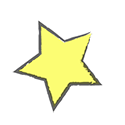
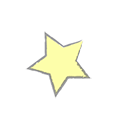
All games working to an acceptable standard - feature complete
must be pretty close to feature complete!

Changed region(s): [[0.096, 0.144, 0.816, 0.912]]

diff --git a/apps/vst/src/edu/voicelabs/vst/WordGameActivity.java b/apps/vst/src/edu/voicelabs/vst/WordGameActivity.java
@@ -8,6 +8,8 @@ import android.os.Handler;
 import android.view.MotionEvent;
 import android.view.View;
 import android.view.View.OnTouchListener;
+import android.view.animation.Animation;
+import android.view.animation.AnimationUtils;
 import android.view.ViewGroup;
 import android.widget.ImageButton;
 import android.widget.ImageView;
@@ -51,7 +53,7 @@ public class WordGameActivity extends AbstractGameActivity implements OnTouchLis
 		new WordData("Lizard", "LIZARD", R.drawable.img_obj_lizzard, R.raw.word_lizzard),
 		new WordData("Lightning", "LIGHTNING", R.drawable.img_obj_lightning, R.raw.word_lightning),
 		new WordData("Lolly", "LOLLY", R.drawable.img_obj_lolly, R.raw.word_lolly),
-		//new WordData("lips", "LIPS", R.drawable.img_obj_lips, R.raw.word_lips),
+		//new WordData("lips", "LIPS", R.drawable.img_obj_lips, R.raw.word_lips), // LIPS doesn't seem to be in the dictionary - Is there any way to add another word?
 		new WordData("Leaves", "LEAVES", R.drawable.img_obj_leaves, R.raw.word_leaves)
 	};
 	private int wordIndex = 0;
@@ -112,15 +114,33 @@ public class WordGameActivity extends AbstractGameActivity implements OnTouchLis
 			    handler.postDelayed(new Runnable() { 
 			         public void run() { 
 			        	 runGameCompletion("Word");
-                         //runLessonCompletion();  // Last game, so go to the victory screen
+			        	 Intent intent = new Intent(getApplicationContext(), LessonCompleteActivity.class);
+				         startActivity(intent);   // go to victory for each game - seperate screen TBD for final win screen
 			         } 
 			    }, 3000); 
 
 		}
-		else {			
+		else {
+			Animation fadeInAnimation;
 			this.playingRef = this.words[this.wordIndex].speechAudio;
 			this.message.setText("Now say " + this.words[this.wordIndex].displayWord + "!");
 			this.wordObject.setBackgroundResource(this.words[this.wordIndex].drawable);
+			
+			//FADE IN
+			fadeInAnimation = AnimationUtils.loadAnimation(this, R.anim.anim_fade_in_obj);
+			fadeInAnimation.reset();
+			
+			View objectView = findViewById(R.id.btn_game3_obj);
+					
+		    View v = objectView;
+		    // cancel any pending animation and start this one
+		    if (v != null){
+		      v.clearAnimation();
+		      v.startAnimation(fadeInAnimation);
+		      
+		    }
+		    
+		    
 			this.subPattern = this.words[this.wordIndex].matchWord;
 			setState(InteractionState.PLAY_THEN_RERUN);
 		}				
@@ -168,6 +188,21 @@ public class WordGameActivity extends AbstractGameActivity implements OnTouchLis
 				this.wordIndex = 0;
 				this.message.setText(this.words[wordIndex].displayWord);
 				this.wordObject.setBackgroundResource(this.words[wordIndex].drawable);
+				
+				//FADE IN
+				Animation fadeInAnimation;
+				fadeInAnimation = AnimationUtils.loadAnimation(this, R.anim.anim_fade_in_obj);
+				fadeInAnimation.reset();
+				
+				View objectView = findViewById(R.id.btn_game3_obj);
+						
+			    View vw = objectView;
+			    // cancel any pending animation and start this one
+			    if (v != null){
+			      vw.clearAnimation();
+			      vw.startAnimation(fadeInAnimation);
+			      
+			    }
 				
 				//Play Object sound
 				MediaPlayer mediaPlayer = MediaPlayer.create(getApplicationContext(), this.words[this.wordIndex].speechAudio);

diff --git a/apps/vst/src/edu/voicelabs/vst/LessonProgressActivity.java b/apps/vst/src/edu/voicelabs/vst/LessonProgressActivity.java
@@ -58,22 +58,22 @@ public class LessonProgressActivity extends Activity implements OnTouchListener 
 				AnimationHelper.runKeyframeAnimation(
 					this, 
 					R.id.imageButtonPhoneme,
-					db.getProgress("Default", "L", "Phoneme") ? R.anim.anim_star_big : R.anim.anim_btn_red_circle1
+					db.getProgress("Default", "L", "Phoneme") ? R.anim.anim_star_small : R.anim.anim_btn_red_circle1
 				);
 				AnimationHelper.runKeyframeAnimation(
 					this, 
 					R.id.imageButtonSyllable, 
-					db.getProgress("Default", "L", "Syllable") ? R.anim.anim_star_big : R.anim.anim_btn_red_circle2
+					db.getProgress("Default", "L", "Syllable") ? R.anim.anim_star_small : R.anim.anim_btn_red_circle2
 				);
 				AnimationHelper.runKeyframeAnimation(
 					this, 
 					R.id.imageButtonWord, 
-					db.getProgress("Default", "L", "Word") ? R.anim.anim_star_big : R.anim.anim_btn_red_circle3
+					db.getProgress("Default", "L", "Word") ? R.anim.anim_star_small : R.anim.anim_btn_red_circle3
 				);
 				AnimationHelper.runKeyframeAnimation(
 					this, 
 					R.id.imageButtonChoose, 
-					db.getProgress("Default", "L", "Choose") ? R.anim.anim_star_big : R.anim.anim_btn_red_circle4
+					db.getProgress("Default", "L", "Choose") ? R.anim.anim_star_small : R.anim.anim_btn_red_circle4
 				);
 			}
 		}	

diff --git a/apps/vst/src/edu/voicelabs/vst/SyllableGameActivity.java b/apps/vst/src/edu/voicelabs/vst/SyllableGameActivity.java
@@ -86,6 +86,8 @@ public class SyllableGameActivity extends AbstractGameActivity implements OnTouc
 			    handler.postDelayed(new Runnable() { 
 			         public void run() { 
 			 			runGameCompletion("Syllable");
+			 			Intent intent = new Intent(getApplicationContext(), LessonCompleteActivity.class);
+				        startActivity(intent);   // go to victory for each game - seperate screen TBD for final win screen
 			         } 
 			    }, 2000); 
 
@@ -102,7 +104,7 @@ public class SyllableGameActivity extends AbstractGameActivity implements OnTouc
 	
 	protected void partSuccess(AbstractGameActivity activityToUpdate, int successCount) {
 		// Encourage the same syllable		
-		this.playingRef = R.raw.feedback_pos_great_job;
+		this.playingRef = R.raw.feedback_partial_try_one_more;
 		this.message.setText("Good, do it again!");
 		setState(InteractionState.PLAY_THEN_RECORD);
 	}

diff --git a/apps/vst/src/edu/voicelabs/vst/ChooseGameActivity.java b/apps/vst/src/edu/voicelabs/vst/ChooseGameActivity.java
@@ -162,13 +162,15 @@ public class ChooseGameActivity extends AbstractGameActivity implements OnTouchL
 			this.playingRef = R.raw.feedback_pos_really_cool;
 			//this.message.setText("Well Done!");
 			setState(InteractionState.PLAY);
-
+			
 			
 			// Last game, so go to the victory screen after 3 sec delay
 			 Handler handler = new Handler(); 
 			    handler.postDelayed(new Runnable() { 
 			         public void run() { 
 			        	 runGameCompletion("Choose");  // Last game, so go to the victory screen
+			        	 Intent intent = new Intent(getApplicationContext(), LessonCompleteActivity.class);
+				         startActivity(intent);   // go to victory for each game - seperate screen TBD for final win screen
 			         } 
 			    }, 3000); 
 			

diff --git a/apps/vst/src/edu/voicelabs/vst/PhonemeGameActivity.java b/apps/vst/src/edu/voicelabs/vst/PhonemeGameActivity.java
@@ -81,7 +81,8 @@ public class PhonemeGameActivity extends AbstractGameActivity implements OnTouch
 		    handler.postDelayed(new Runnable() { 
 		         public void run() { 
 		        	 runGameCompletion("Phoneme");
-                     //runLessonCompletion();  // Last game, so go to the victory screen
+		        	 Intent intent = new Intent(getApplicationContext(), LessonCompleteActivity.class);
+			         startActivity(intent);   // go to victory for each game - seperate screen TBD for final win screen
 		         } 
 		    }, 3000); 
 

diff --git a/apps/vst/src/edu/voicelabs/vst/SettingsActivity.java b/apps/vst/src/edu/voicelabs/vst/SettingsActivity.java
@@ -31,7 +31,7 @@ public class SettingsActivity extends Activity implements OnTouchListener {
 	public boolean onTouch(View v, MotionEvent event) {
 		if (event.getAction() == MotionEvent.ACTION_UP) {		
 			if (v == this.buttonExit) {
-				Intent intent = new Intent(getApplicationContext(), StartActivity.class);
+				Intent intent = new Intent(getApplicationContext(), PhonemeSelectActivity.class);
 	            startActivity(intent); 
 			}
 			else if (v == this.buttonResetProfile) {
